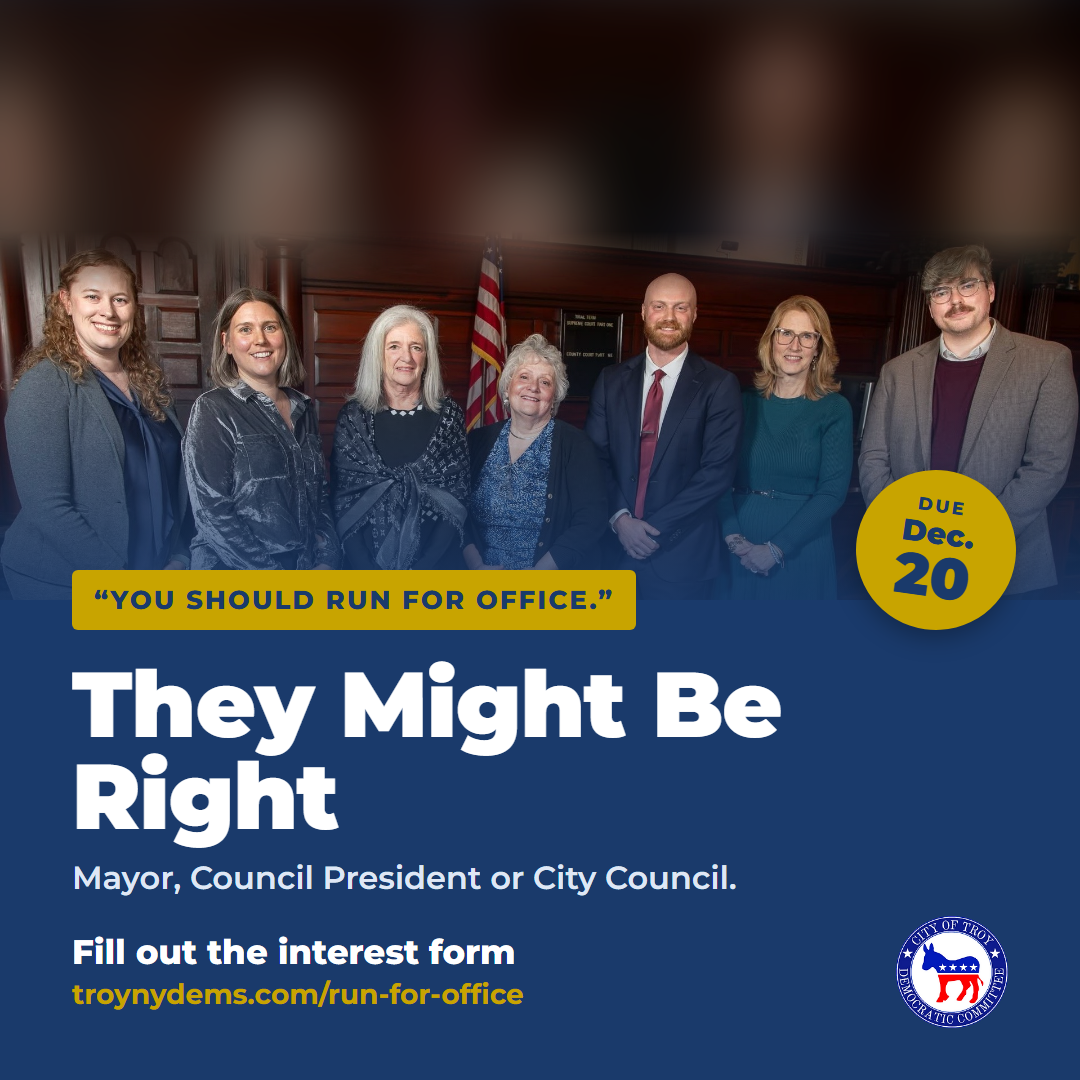
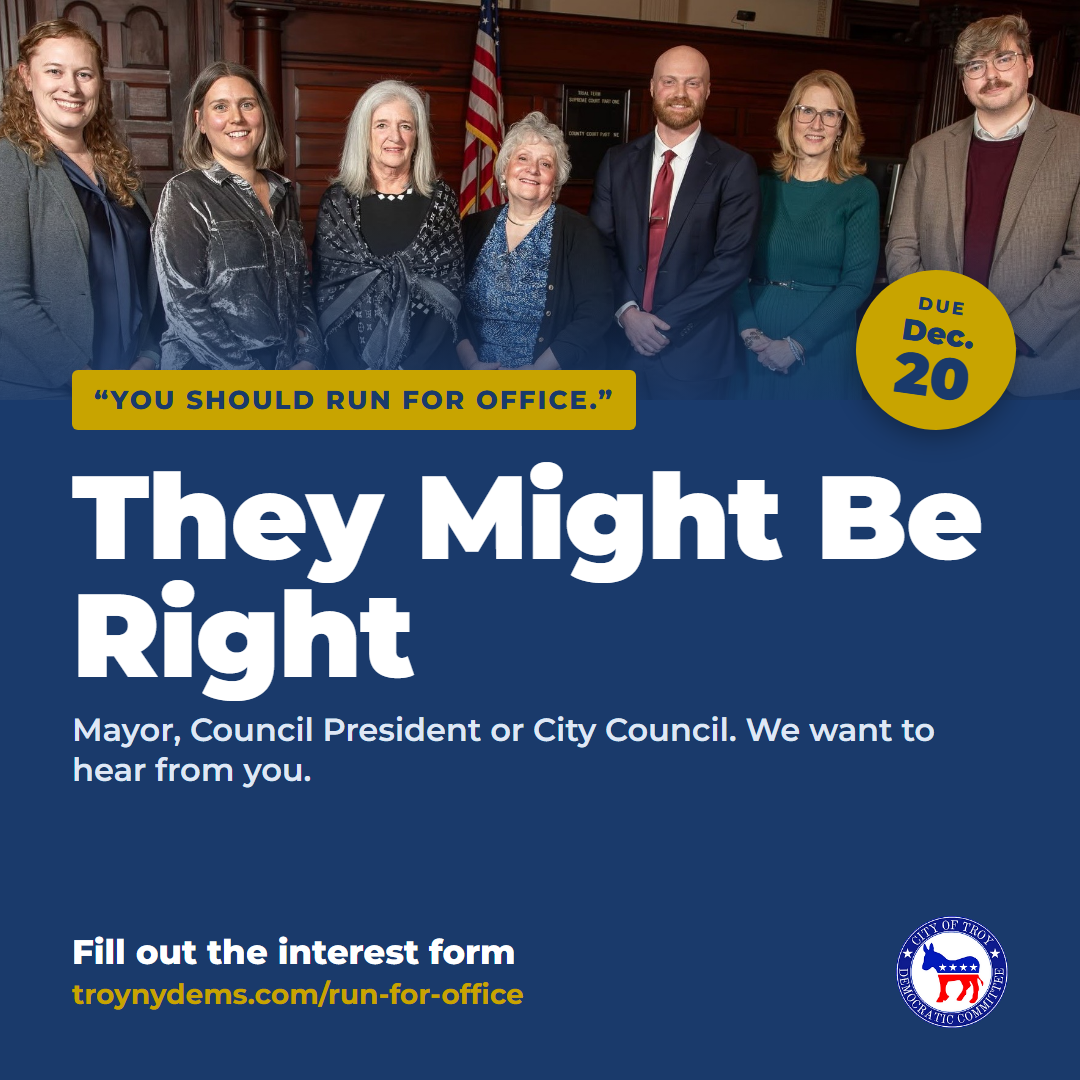
Show Post 4 group photo at top without blur
Adds a photo_h option to the renderer so wide group photos get a shorter photo band instead of a blurred fill. Post 4 uses it with a larger headline.

diff --git a/run-for-office-posts/template.html b/run-for-office-posts/template.html
@@ -4,16 +4,16 @@
 *{margin:0;padding:0;box-sizing:border-box}
 html,body{width:1080px;height:1080px;overflow:hidden}
 body{background:#1a3a6b;font-family:Montserrat,sans-serif;color:#fff;position:relative}
-.photo{position:absolute;left:0;top:0;width:1080px;height:600px;overflow:hidden;background:#1a3a6b}
+.photo{position:absolute;left:0;top:0;width:1080px;height:__PH__px;overflow:hidden;background:#1a3a6b}
 .photo img{position:absolute;inset:0;width:100%;height:100%;object-fit:cover;object-position:__POS__;display:block;filter:__FILTER__}
 .photo img.bg{filter:blur(28px) brightness(.55) __FILTER2__;transform:scale(1.15)}
 .photo.wide img.fg{top:auto;bottom:0;height:auto;object-fit:contain;-webkit-mask-image:linear-gradient(180deg,transparent 0,#000 18%);mask-image:linear-gradient(180deg,transparent 0,#000 18%)}
 .photo::after{content:"";position:absolute;inset:0;background:linear-gradient(180deg,rgba(26,58,107,0) 55%,rgba(26,58,107,.85) 100%)}
-.date{position:absolute;top:470px;right:64px;width:160px;height:160px;border-radius:50%;background:#C8A400;color:#1a3a6b;display:flex;flex-direction:column;align-items:center;justify-content:center;transform:rotate(8deg);box-shadow:0 8px 24px rgba(0,0,0,.3);z-index:2}
+.date{position:absolute;top:__DT__px;right:64px;width:160px;height:160px;border-radius:50%;background:#C8A400;color:#1a3a6b;display:flex;flex-direction:column;align-items:center;justify-content:center;transform:rotate(8deg);box-shadow:0 8px 24px rgba(0,0,0,.3);z-index:2}
 .date .t{font-weight:800;font-size:18px;letter-spacing:.14em;text-transform:uppercase}
 .date .m{font-weight:900;font-size:30px;line-height:1;margin-top:2px}
 .date .d{font-weight:900;font-size:58px;line-height:.95}
-.panel{position:absolute;left:0;right:0;top:600px;bottom:0;padding:0 72px 52px;display:flex;flex-direction:column}
+.panel{position:absolute;left:0;right:0;top:__PH__px;bottom:0;padding:0 72px 52px;display:flex;flex-direction:column}
 .kicker{align-self:flex-start;margin-top:-30px;background:#C8A400;color:#1a3a6b;font-weight:800;font-size:26px;letter-spacing:.08em;text-transform:uppercase;padding:14px 22px;border-radius:6px;position:relative;z-index:2}
 h1{font-weight:900;font-size:__HS__px;line-height:1.0;margin-top:28px;letter-spacing:-.01em}
 .sub{font-weight:600;font-size:32px;line-height:1.25;margin-top:16px;color:#dfe7f5}

diff --git a/run-for-office-posts/render.py b/run-for-office-posts/render.py
@@ -4,7 +4,8 @@
   python run-for-office-posts/render.py invitation   # render posts whose id contains "invitation"
 
 Each post in posts.json: id, photo (a file in images/), pos (CSS object-position for the
-photo crop, default "center"), bw (true shows the photo in black and white), fit ("width" shows the whole width of
+photo crop, default "center"), bw (true shows the photo in black and white), photo_h (photo height in px,
+default 600; use a shorter one for wide group photos so nobody is cropped out), fit ("width" shows the whole width of
 a wide group photo over a blurred copy instead of cropping it), kicker,
 headline, sub, cta, size (headline px). Always look at the PNG afterward.
 """
@@ -45,6 +46,8 @@ def main():
                    .replace("__FILTER__", "grayscale(1) contrast(1.05)" if p.get("bw") else "none")
                    .replace("__FILTER2__", "grayscale(1)" if p.get("bw") else "")
                    .replace("__FIT__", "wide" if p.get("fit") == "width" else "")
+                   .replace("__PH__", str(p.get("photo_h", 600)))
+                   .replace("__DT__", str(p.get("photo_h", 600) - 130))
                    .replace("__KICKER__", html.escape(p["kicker"]))
                    .replace("__HEADLINE__", html.escape(p["headline"]))
                    .replace("__SUB__", html.escape(p["sub"]))

diff --git a/run-for-office-posts/README.md b/run-for-office-posts/README.md
@@ -110,7 +110,7 @@ Post date: Thu., Dec. 17
 
 Graphic: `graphics/4-invitation.png`
 
-Alt text: *Photo of the Troy City Council members for the 2025-2027 term at their swearing-in. Text reads "“You should run for office.” They Might Be Right. Mayor, Council President or City Council. Fill out the interest form: troynydems.com/run-for-office." A gold circle reads "Due Dec. 20." Troy Democratic Committee logo.*
+Alt text: *Photo of the Troy City Council members for the 2025-2027 term at their swearing-in. Text reads "“You should run for office.” They Might Be Right. Mayor, Council President or City Council. We want to hear from you. Fill out the interest form: troynydems.com/run-for-office." A gold circle reads "Due Dec. 20." Troy Democratic Committee logo.*
 
 > Has someone ever told you, "You should run for office"? They might have been right.
 >
